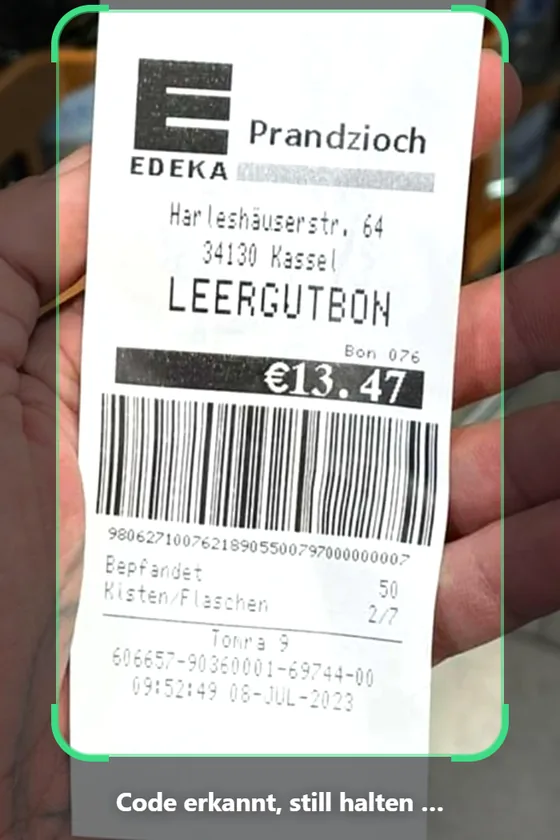
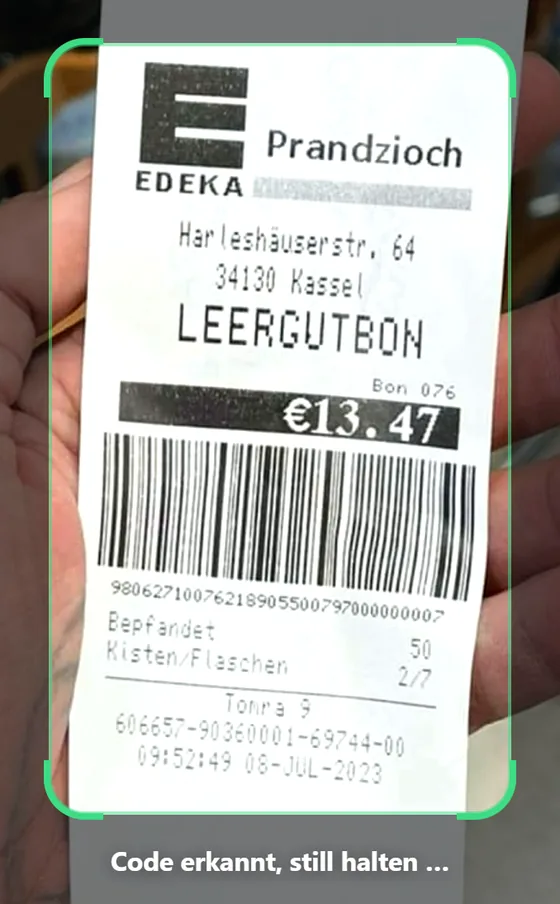
Scanner-UX: quer nutzbar, angeschnittener Code loest nicht aus, Filiale sauber
- Quer (Handy seitlich): Ausloeser mittig in einer Spalte rechts, darueber
  Karte | Papier, darunter Bild hochladen; der Rahmen nutzt die ganze Hoehe
  (vorher 96 x 160 px bzw. 190 x 120 px). Titel, Rahmen und Hinweis auf
  einer Mitte, Kamera-Fehler quer ohne Knopfspalte
- Sichere Raender links/rechts (Notch quer) fuer Kopf, Fuss und Rahmen
- Code stoesst an den Rahmen (zu nah oder verrutscht): kein Auto-Ausloesen,
  Hinweis "Ganz in den Rahmen halten" - vorher landete z. B. eine Karte im
  Papier-Rahmen angeschnitten im Wallet-Bild
- Drehen/Groesse aendern verwirft alte Lesungen
- Titel mit Schatten, lesbar ueber hellem Papier
- Kurz-Bestaetigung: Filiale bricht nur zwischen Name, Strasse, Ort um
  (nicht mehr "Harleshaeuserstr." / "64, 34130 Kassel"); der Punkt im
  Titel klebt am Laden; beim Aendern eines Bons nie "Hinzufuegen"
- Update-Log: Scanner-Bild mit Luft um den Rahmen, Satz ohne unklares "er";
  Einfuehrung sagt "Gutschein scannen"

diff --git a/public/app.js b/public/app.js
@@ -4336,7 +4336,7 @@ function startTour() {
     </div>`;
   const steps = [
     { view: 'feed', tab: 'feed', title: 'Deals, die sich lohnen', text: 'Oben die Highlights, darunter die Top Deals für dich. Preisfehler meldet kumulio auf Wunsch sofort aufs Handy.', visual: feedDemo },
-    { view: 'wallet', tab: 'wallet', title: 'Deine Wallet', text: 'Gutschein abfotografieren, den Rest füllt kumulio aus. Karten & Coupons deiner Läden liegen gleich daneben.', visual: walletDemo },
+    { view: 'wallet', tab: 'wallet', title: 'Deine Wallet', text: 'Gutschein scannen, den Rest füllt kumulio aus. Karten & Coupons deiner Läden liegen gleich daneben.', visual: walletDemo },
     // Lios: mit Konto zeigt das Lichtfeld auf den runden Shop-Knopf oben rechts in der
     // Wallet, ohne Konto (den Knopf gibt es dann nicht) steht die Karte mittig
     { view: 'wallet', sel: '#btn-lio-top', nurWenn: lioKnopfSichtbar, title: 'Lios sammeln', text: (state.token
@@ -7702,20 +7702,36 @@ function oeffneScanner({ art = 'gutschein', mehrere = false, beimFoto = null, be
     } catch { detektor = null; }
   }
 
-  // ---- Rahmen: so gross wie moeglich zwischen Kopf und Fuss, mittig
+  // ---- Rahmen: so gross wie moeglich zwischen Kopf und Fuss, mittig. Quer
+  // (Handy seitlich) stehen Ausloeser und Co. in einer Spalte rechts, der
+  // Rahmen nutzt die ganze Hoehe links davon. Sichere Raender (Notch, Leiste
+  // unten) traegt .scanner als padding — nur zum Messen hier
   const anordnen = () => {
-    const W = el.clientWidth;
-    const oben = el.querySelector('.sc-kopf').getBoundingClientRect().bottom + 14;
-    const unten = el.querySelector('.sc-fuss').getBoundingClientRect().top - 60;   // Platz fuer den Hinweis
+    const W = el.clientWidth, H = el.clientHeight;
+    const quer = W > H && H <= 560;
+    el.classList.toggle('quer', quer);
+    const cs = getComputedStyle(el);
+    const sl = parseFloat(cs.paddingLeft) || 0, sr = parseFloat(cs.paddingRight) || 0, sb = parseFloat(cs.paddingBottom) || 0;
+    const oben = el.querySelector('.sc-kopf').getBoundingClientRect().bottom + (quer ? 8 : 14);
+    const links = sl + 20;
+    // quer: so weit von der Spalte wie der Titel, dann stehen Titel, Rahmen und Hinweis auf einer Mitte
+    const rechts = quer ? el.querySelector('.sc-fuss').getBoundingClientRect().left - 20 : W - sr - 20;
+    // Platz fuer den Hinweis unter dem Rahmen
+    const unten = quer ? H - sb - 50 : el.querySelector('.sc-fuss').getBoundingClientRect().top - 60;
+    const breit = Math.max(120, rechts - links);
     const seiten = SCAN_FORMEN[form];
     const platzH = Math.max(120, unten - oben);
-    let w = seiten < 1 ? Math.min((W - 40) * 0.8, 380) : Math.min(W - 40, 560);
+    let w = seiten < 1 && !quer ? Math.min(breit * 0.8, 380) : Math.min(breit, 560);
     let h = w / seiten;
     if (h > platzH) { h = platzH; w = h * seiten; }
-    const x = (W - w) / 2, y = oben + (platzH - h) / 2;
+    const x = links + (breit - w) / 2, y = oben + (platzH - h) / 2;
     lauf.lage = { x, y, w, h };
     Object.assign(rahmen.style, { left: Math.round(x) + 'px', top: Math.round(y) + 'px', width: Math.round(w) + 'px', height: Math.round(h) + 'px' });
-    hinweisEl.style.top = Math.round(y + h + 18) + 'px';
+    // Der Hinweis steht mittig unter dem Rahmen (quer nur ueber dessen Spalte)
+    Object.assign(hinweisEl.style, {
+      top: Math.round(y + h + (quer ? 12 : 18)) + 'px',
+      left: quer ? Math.round(links) + 'px' : '', right: quer ? Math.round(W - rechts) + 'px' : '',
+    });
     lauf.grau = null; lauf.unruhe = [];
   };
   // Rahmen im Video (das Video fuellt den Schirm wie object-fit: cover);
@@ -7738,7 +7754,7 @@ function oeffneScanner({ art = 'gutschein', mehrere = false, beimFoto = null, be
     start: 'Kamera startet …',
     sucht: istBon ? 'Bon in den Rahmen halten' : 'Gutschein in den Rahmen halten',
     naeher: 'Näher ran',
-    ganz: 'Ganzen Bon in den Rahmen halten',
+    ganz: istBon ? 'Ganzen Bon in den Rahmen halten' : 'Ganz in den Rahmen halten',
     dunkel: 'Mehr Licht, bitte',
     halten: 'Code erkannt, still halten …',
     ohneCode: 'Kein Code lesbar? Tipp auf den Auslöser',
@@ -7826,7 +7842,8 @@ function oeffneScanner({ art = 'gutschein', mehrere = false, beimFoto = null, be
         if (c) {
           const bb = c.boundingBox;
           fund = { text: c.rawValue, format: codeFormatName(c.format), typ: /qr|aztec|data_matrix|pdf|maxi/.test(c.format) ? '2d' : '1d',
-            breite: (bb?.width || 0) / ac.width, mitte: bb ? (bb.y + bb.height / 2) / ac.height : null, bild };
+            breite: (bb?.width || 0) / ac.width, mitte: bb ? (bb.y + bb.height / 2) / ac.height : null, bild,
+            amRand: !!bb && (bb.x < ac.width * 0.01 || bb.x + bb.width > ac.width * 0.99 || bb.y < ac.height * 0.005 || bb.y + bb.height > ac.height * 0.995) };
         }
       } else {
         const fl = findeCodeFlaechen(mess);
@@ -7846,7 +7863,11 @@ function oeffneScanner({ art = 'gutschein', mehrere = false, beimFoto = null, be
           const r = hinten ? await hinten.lies(c, v.bin, formate) : zxingLies(c, v.bin, formate);
           if (r && r.text && r.text.trim().length >= 4) {
             const typ = /qr|aztec|matrix|pdf|maxi/.test(r.format || '') ? '2d' : '1d';
-            fund = { text: r.text.trim(), format: r.format || '', typ, breite: f.width / mess.width, mitte: (f.y + f.height / 2) / mess.height, bild };
+            // amRand: die Code-Flaeche stoesst an den Rahmen (bis 4 px im 360er
+            // Messbild; die Flaeche reicht etwas ueber die Striche hinaus) — der
+            // Code ragt hinaus, das Bild waere angeschnitten
+            fund = { text: r.text.trim(), format: r.format || '', typ, breite: f.width / mess.width, mitte: (f.y + f.height / 2) / mess.height, bild,
+              amRand: f.x < 4 || f.x + f.width > mess.width - 4 || f.y < 4 || f.y + f.height > mess.height - 4 };
             break;
           }
         }
@@ -7878,6 +7899,9 @@ function oeffneScanner({ art = 'gutschein', mehrere = false, beimFoto = null, be
     const ruhig = u.length === 2 && u.every(x => x.weg < 1.5 && (x.rest <= SCAN_RUHIG || x.rest <= x.kante));
     const beste = Math.max(...lauf.schaerfen.map(x => x.s));
     const scharf = v.schaerfe >= beste * 0.7;
+    // Der Code stoesst an den Rahmen (zu nah dran oder seitlich verrutscht):
+    // nicht selbst ausloesen, das Bild waere angeschnitten
+    if (code && code.amRand) { lauf.halteSeit = 0; lauf.sucheSeit = 0; zustand('ganz'); return; }
     if (code && code.breite >= minB) {
       lauf.sucheSeit = 0;
       // Bon mit dem Code ganz oben im Rahmen: Laden und Filiale fehlen im Bild
@@ -8146,7 +8170,8 @@ function oeffneScanner({ art = 'gutschein', mehrere = false, beimFoto = null, be
     else if (lauf.pausiert) kameraAn();
   };
   const weg = () => zu('weg');
-  const neuLage = () => { if (lauf.an && !lauf.fertig) anordnen(); };
+  // Gedreht oder Fenster geaendert: neuer Rahmen, alte Lesungen gelten nicht mehr
+  const neuLage = () => { if (lauf.an && !lauf.fertig) { anordnen(); lauf.treffer = []; lauf.halteSeit = 0; } };
   const zu = (grund = 'abbruch') => {
     if (!lauf.an) return;
     lauf.an = false;
@@ -8969,7 +8994,7 @@ function openWalletAdd(type, prefillName, bearbeiteId, opts = {}) {
           && !findDupe({ vendor: currentVendor(), code, pin, amount: wert });
         if (sicher) {
           waKompakt(seite, {
-            titel: `Erkannt: ${currentVendor()} · ${euroFmt(wert)}`,
+            titel: `Erkannt: ${currentVendor()}\u00a0· ${euroFmt(wert)}`,   // der Punkt bricht nie an den Zeilenanfang
             zeilen: [code && ['Code', code], pin && ['PIN', pin]].filter(Boolean),
             bild: addImg || addCodeImg,
           });
@@ -13494,7 +13519,8 @@ function openPfandAdd(prefillName = '', bearbeiteId = '', opts = {}) {
         const t = sel => String(q(sel)?.value || '').trim();
         const d = entwurf();
         const filiale = t('#pf-strasse') || t('#pf-ort');
-        const sicher = r.istPfand && r.kette?.sicher && r.betrag?.sicher && gewaehlt && d.amount > 0 && filiale
+        // Beim Aendern eines Bons immer das ganze Formular ("Hinzufuegen" passte dort nicht)
+        const sicher = !addEditId && r.istPfand && r.kette?.sicher && r.betrag?.sicher && gewaehlt && d.amount > 0 && filiale
           && (r.code?.sicher || r.codeBildGeprueft) && !pruefen()
           && !findDupe({ art: 'pfand', vendor: gewaehlt, code: t('#wa-code').replace(/\s+/g, '') });
         if (sicher) {
@@ -13503,9 +13529,9 @@ function openPfandAdd(prefillName = '', bearbeiteId = '', opts = {}) {
           const code = t('#wa-code');
           waKompakt(seite, {
             // Die Filiale steht darunter (und auf der Karte): die Zeile bleibt kurz
-            titel: `Erkannt: ${gewaehlt} · ${euroFmt(d.amount)}`,
+            titel: `Erkannt: ${gewaehlt}\u00a0· ${euroFmt(d.amount)}`,
             zeilen: [
-              ['Filiale', [t('#pf-name'), t('#pf-strasse'), ort].filter(Boolean).join(', '), ['#pf-name', '#pf-strasse', '#pf-plz', '#pf-ort'].some(unsicher)],
+              ['Filiale', [t('#pf-name'), t('#pf-strasse'), ort].filter(Boolean), ['#pf-name', '#pf-strasse', '#pf-plz', '#pf-ort'].some(unsicher)],
               code && ['Code', code.length > 22 ? code.slice(0, 10) + ' … ' + code.slice(-6) : code, unsicher('#wa-code')],
               t('#pf-datum') && ['Datum', waTag(t('#pf-datum')), unsicher('#pf-datum')],
               t('#pf-bon') && ['Bon-Nr.', t('#pf-bon'), unsicher('#pf-bon')],
@@ -13713,7 +13739,12 @@ function waSchalterVerdrahten(seite, q, typ, opts, alterSchalter) {
 // alles Noetige sicher gelesen wurde; gespeichert wird trotzdem erst mit
 // "Hinzufuegen" (derselbe Speichern-Knopf, dieselbe Pruefung wie sonst).
 // "Bearbeiten" zeigt das ganze, schon ausgefuellte Formular.
-// zeilen: [Bezeichnung, Wert, pruefen?]
+// zeilen: [Bezeichnung, Wert, pruefen?]; Wert als Liste (Filiale: Name,
+// Strasse, Ort) bricht nur zwischen den Teilen um, nie mitten in "Str. 64"
+function waKompaktWert(v) {
+  if (!Array.isArray(v)) return esc(v);
+  return v.filter(Boolean).map(t => t.length <= 26 ? `<span class="wa-am-stueck">${esc(t)}</span>` : esc(t)).join(', ');
+}
 function waKompakt(seite, { titel, unter = '', zeilen = [], bild = '' }) {
   const el = seite?.el;
   const form = el?.querySelector('.wa-form');
@@ -13733,7 +13764,7 @@ function waKompakt(seite, { titel, unter = '', zeilen = [], bild = '' }) {
         <small>${esc(unter || (pruefen ? 'Das Wichtigste ist sicher gelesen. Markiertes bitte kurz ansehen.' : 'Alles sicher gelesen. Kurz ansehen, dann hinzufügen.'))}</small></span>
     </div>
     ${zeilen.length ? `<div class="wa-erkannt-zeilen">${zeilen.map(([k, v, p]) => `
-      <div class="wa-erkannt-zeile${p ? ' pruefen' : ''}"><span>${esc(k)}${p ? ' · prüfen' : ''}</span><b>${esc(v)}</b></div>`).join('')}</div>` : ''}
+      <div class="wa-erkannt-zeile${p ? ' pruefen' : ''}"><span>${esc(k)}${p ? ' · prüfen' : ''}</span><b>${waKompaktWert(v)}</b></div>`).join('')}</div>` : ''}
     ${bild ? `<button class="wa-erkannt-bild" type="button" aria-label="Scan groß ansehen"><img src="${esc(bild)}" alt="Dein Scan"></button>` : ''}`;
   form.querySelector('.wa-vorschau')?.after(box);
   el.querySelector('#wa-kompakt-knoepfe')?.remove();

diff --git a/public/look-blaetter.css b/public/look-blaetter.css
@@ -1875,13 +1875,14 @@ a.bk-pdf-teilen { color: var(--akzent-text); }
   padding: 11px 0; border-bottom: 1px solid var(--linie);
 }
 .wa-erkannt-zeile:last-child { border-bottom: 0; }
-.wa-erkannt-zeile span { flex: none; font-size: .8rem; font-weight: 650; color: var(--muted); }
+.wa-erkannt-zeile > span { flex: none; font-size: .8rem; font-weight: 650; color: var(--muted); }
 .wa-erkannt-zeile b {
   min-width: 0; font-size: .9rem; font-weight: 750; text-align: right;
   font-variant-numeric: tabular-nums; overflow-wrap: anywhere;
 }
-.wa-erkannt-zeile.pruefen span { color: #9A5B00; font-weight: 750; }
-:root[data-theme="dark"] .wa-erkannt-zeile.pruefen span { color: #F5B75E; }
+.wa-erkannt-zeile .wa-am-stueck { white-space: nowrap; }
+.wa-erkannt-zeile.pruefen > span { color: #9A5B00; font-weight: 750; }
+:root[data-theme="dark"] .wa-erkannt-zeile.pruefen > span { color: #F5B75E; }
 
 /* =============================================================================
    Live-Scanner: Kamera im Vollbild, Rahmen in der Mitte, aussen abgedunkelt.
@@ -1889,7 +1890,10 @@ a.bk-pdf-teilen { color: var(--akzent-text); }
    Glas, aber ohne backdrop-filter; Bewegung nur transform/opacity.
    ========================================================================== */
 .scanner {
-  position: fixed; inset: 0; z-index: 91; overflow: hidden;
+  position: fixed; inset: 0; z-index: 91; overflow: hidden; box-sizing: border-box;
+  /* Sichere Raender nur zum Messen (anordnen): die Kinder liegen absolut und
+     fuellen trotzdem den ganzen Schirm */
+  padding: env(safe-area-inset-top, 0px) env(safe-area-inset-right, 0px) env(safe-area-inset-bottom, 0px) env(safe-area-inset-left, 0px);
   background: #07090C; color: #fff;
   touch-action: none; overscroll-behavior: contain;
   -webkit-user-select: none; user-select: none; -webkit-tap-highlight-color: transparent;
@@ -1938,12 +1942,13 @@ a.bk-pdf-teilen { color: var(--akzent-text); }
 .sc-kopf {
   position: absolute; left: 0; right: 0; top: 0;
   display: grid; grid-template-columns: 44px minmax(0, 1fr) 44px; align-items: center; gap: 8px;
-  padding: calc(env(safe-area-inset-top, 0px) + 12px) 14px 0;
+  padding: calc(env(safe-area-inset-top, 0px) + 12px) calc(env(safe-area-inset-right, 0px) + 14px) 0 calc(env(safe-area-inset-left, 0px) + 14px);
 }
 .sc-titel {
   grid-column: 2; margin: 0; text-align: center; color: #fff;
   font-size: 1.02rem; font-weight: 800; letter-spacing: -.01em;
   white-space: nowrap; overflow: hidden; text-overflow: ellipsis;
+  text-shadow: 0 1px 10px rgba(0, 0, 0, .5);   /* lesbar auch ueber hellem Papier */
 }
 .sc-kopf .sc-zu { grid-column: 1; grid-row: 1; }
 .sc-kopf .sc-licht { grid-column: 3; grid-row: 1; }
@@ -1960,7 +1965,7 @@ a.bk-pdf-teilen { color: var(--akzent-text); }
 .sc-fuss {
   position: absolute; left: 0; right: 0; bottom: 0;
   display: flex; flex-direction: column; align-items: center; gap: 18px;
-  padding: 0 18px calc(env(safe-area-inset-bottom, 0px) + 24px);
+  padding: 0 calc(env(safe-area-inset-right, 0px) + 18px) calc(env(safe-area-inset-bottom, 0px) + 24px) calc(env(safe-area-inset-left, 0px) + 18px);
 }
 .sc-leiste { display: grid; grid-template-columns: minmax(0, 1fr) auto minmax(0, 1fr); align-items: center; width: 100%; max-width: 420px; }
 .sc-neben { display: flex; flex-direction: column; align-items: center; gap: 7px; cursor: pointer; }
@@ -2005,6 +2010,29 @@ a.bk-pdf-teilen { color: var(--akzent-text); }
 .scanner .gd-los, :root[data-theme="dark"] .scanner .gd-los { margin-top: 0; background: #fff; color: #111; cursor: pointer; }
 .scanner .gd-los.leise, :root[data-theme="dark"] .scanner .gd-los.leise { background: rgba(255, 255, 255, .14); color: #fff; }
 .scanner .gd-los .icon { width: 20px; height: 20px; }
+/* Quer (Handy seitlich): Ausloeser mittig in einer Spalte rechts, darueber
+   Karte | Papier, darunter Bild hochladen — wie in der Kamera-App. Der Rahmen
+   nutzt die ganze Hoehe links davon (anordnen in app.js) */
+.scanner.quer { --sc-spalte: calc(env(safe-area-inset-right, 0px) + 124px); }
+.scanner.quer .sc-kopf { right: var(--sc-spalte); padding-right: 14px; }
+.scanner.quer .sc-fuss {
+  left: auto; top: 0; width: var(--sc-spalte); box-sizing: border-box;
+  display: grid; grid-template-rows: minmax(0, 1fr) auto minmax(0, 1fr); justify-items: center; align-items: center; gap: 16px;
+  padding: calc(env(safe-area-inset-top, 0px) + 12px) calc(env(safe-area-inset-right, 0px) + 12px) calc(env(safe-area-inset-bottom, 0px) + 12px) 12px;
+}
+.scanner.quer .sc-leiste { display: contents; }
+.scanner.quer .sc-form { grid-row: 1; align-self: end; grid-template-columns: minmax(0, 1fr); }
+.scanner.quer .sc-form-knopf { min-width: 78px; padding: 0 10px; }
+.scanner.quer .sc-ausloeser { grid-row: 2; }
+.scanner.quer .sc-leiste > .sc-neben:first-child { grid-row: 3; align-self: start; }
+.scanner.quer .sc-leiste > .sc-neben[aria-hidden="true"] { display: none; }
+/* Kamera geht nicht, quer: ohne grosses Symbol, Knoepfe nebeneinander */
+.scanner.quer.fehler .sc-kopf { right: 0; }
+.scanner.quer.fehler .sc-fuss { display: none; }
+.scanner.quer .sc-fehler { top: calc(50% + 24px); width: min(460px, calc(100% - 40px)); }
+.scanner.quer .sc-fehler-bild { display: none; }
+.scanner.quer .sc-fehler h3 { margin-top: 0; }
+.scanner.quer .sc-fehler-knoepfe { grid-auto-flow: column; grid-auto-columns: minmax(0, 1fr); margin-top: 16px; }
 @media (prefers-reduced-motion: reduce) {
   .scanner, .sc-video { transition: none; }
   .scanner.erfasst .sc-blitz, .sc-rahmen.sc-klick, .sc-rahmen.sc-form-neu .sc-ecke, .sc-hinweis.sc-neu { animation: none; }
